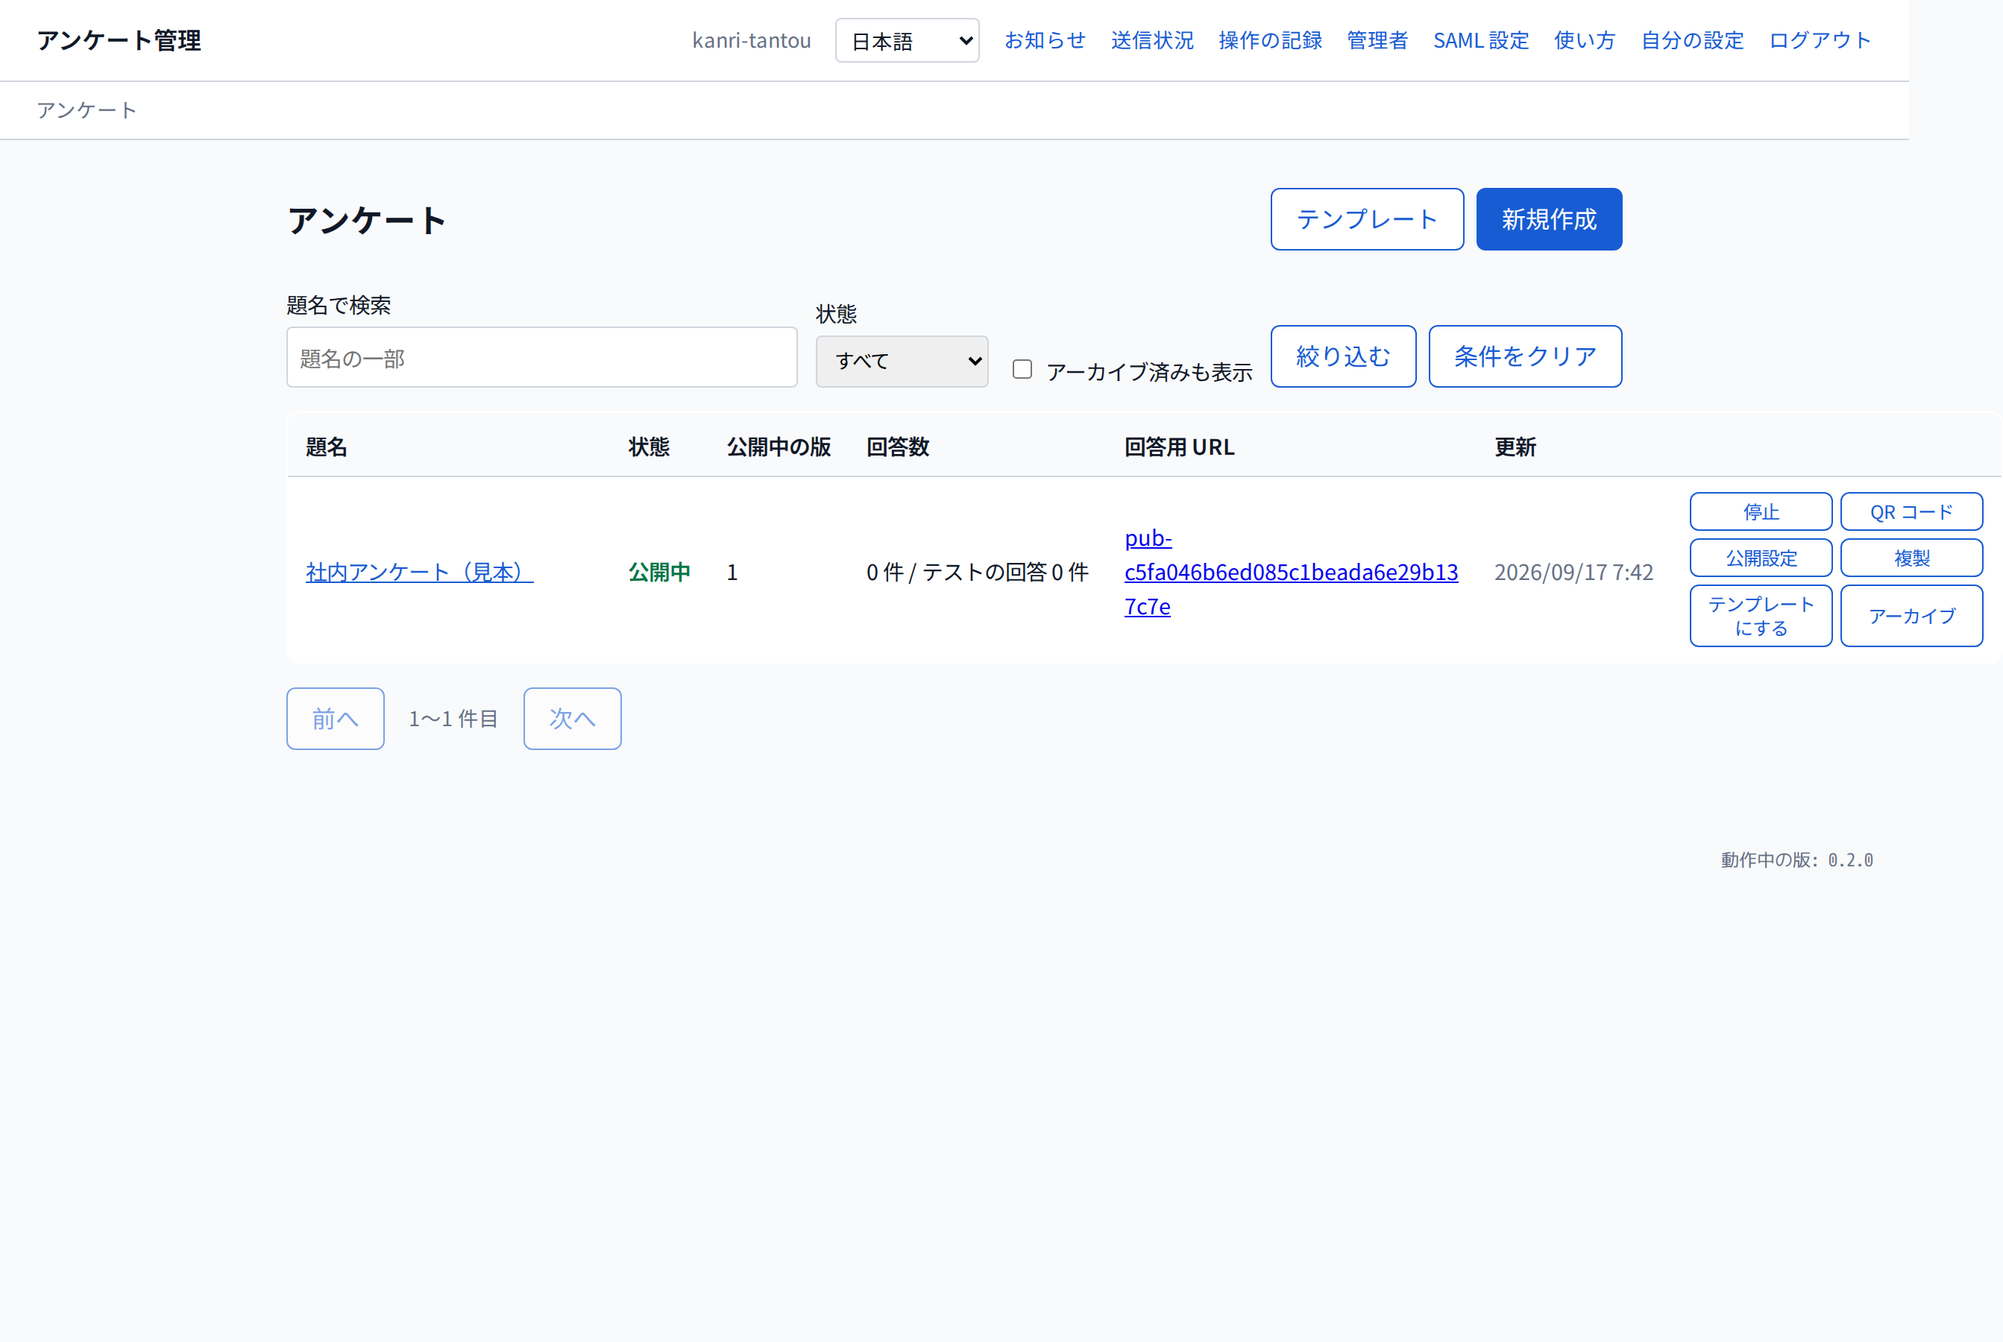
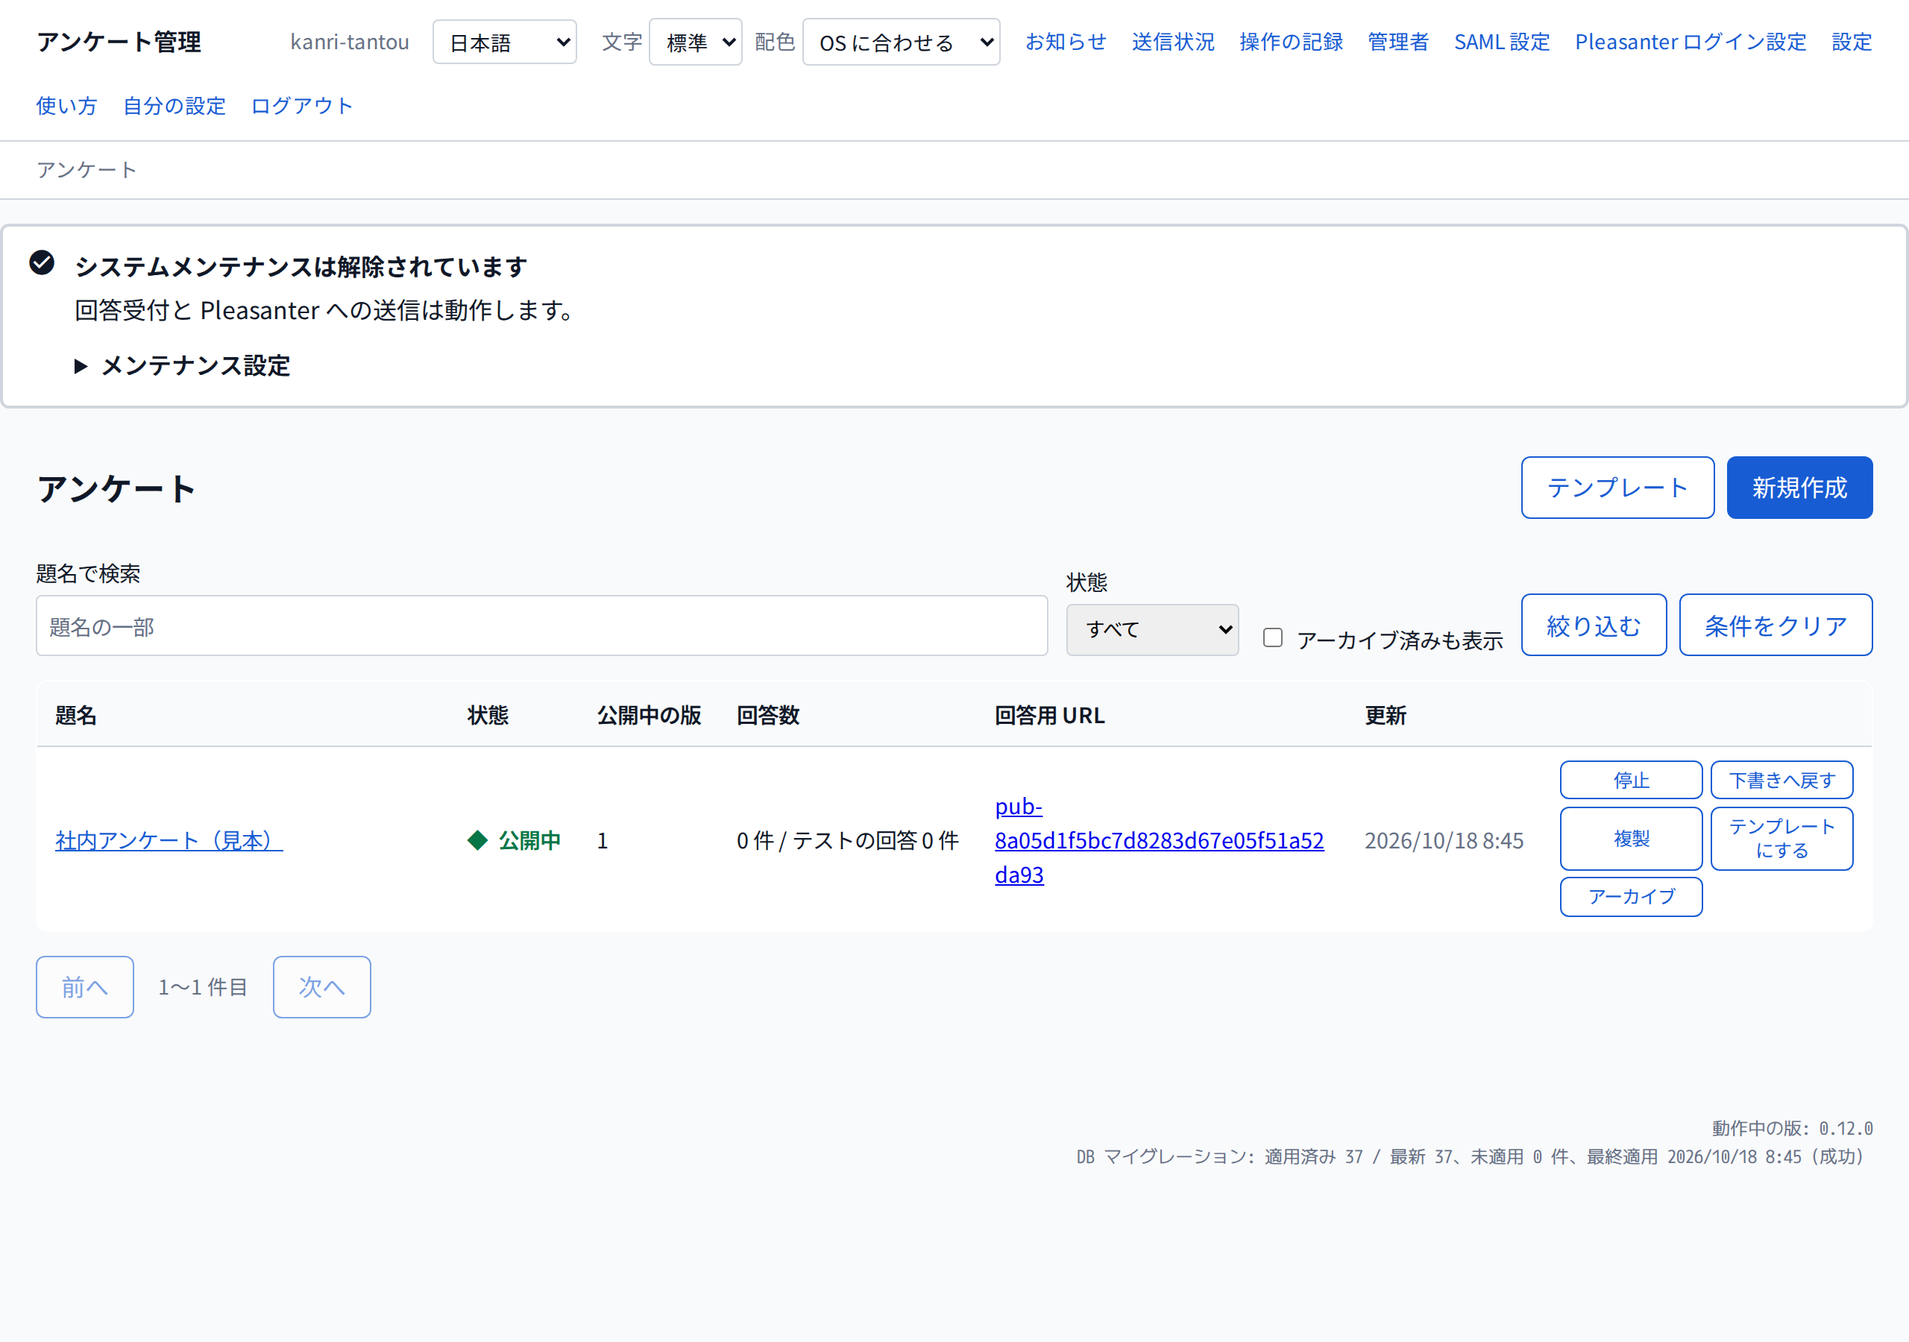
v0.12.0向けの取説用画面写しを更新する (#642)
* v0.12.0の新機能を撮影するspecを追加する

取説に必要な移動警告、ページ下部の釦、選択肢備考、未保存表示を再現するため。\n\n検証: SQL Server のまっさらな検証環境で manual.spec.ts と features.spec.ts の 17 件が成功。\n\nCo-authored-by: Copilot <223556219+Copilot@users.noreply.github.com>

* v0.12.0向けの取説用画面写しを撮り直す

既存写しを現行画面へ更新し、新機能を説明できる6枚を追加するため。\n\n検証: Playwright の manual.spec.ts と features.spec.ts をまっさらな SQL Server 環境で連続実行。\n\nCo-authored-by: Copilot <223556219+Copilot@users.noreply.github.com>

* 新機能の画面写しを取説へ追加する

移動警告、釦条件、選択肢備考、未保存表示の操作を画面と対応付けるため。\n\n検証: 更新した _documents 配下の2文書を markdownlint-cli2 で検証。\n\nCo-authored-by: Copilot <223556219+Copilot@users.noreply.github.com>

diff --git a/tools/screenshots/lib/features.ts b/tools/screenshots/lib/features.ts
@@ -1,0 +1,162 @@
+import type { APIRequestContext } from '@playwright/test';
+import { currentRevision } from './survey';
+
+/**
+ * v0.12.0 の編集・回答画面を撮るための見本を作る。
+ *
+ * 移動の警告、ページ下部の釦、選択肢の備考を 1 つの定義に集め、
+ * 管理画面と回答画面で同じ設定を確かめられるようにする。
+ */
+export async function prepareFeatureSurvey(
+  request: APIRequestContext,
+  pleasanterSiteId: number,
+): Promise<{ surveyId: string; publicId: string }> {
+  const created = await request.post('/api/admin/surveys', {
+    data: { title: '新機能の見本', pleasanterSiteId },
+  });
+  if (!created.ok()) {
+    throw new Error(`アンケートを作れなかった: ${created.status()} ${await created.text()}`);
+  }
+
+  const { surveyId, publicId } = (await created.json()) as {
+    surveyId: string;
+    publicId: string;
+  };
+
+  const definition = {
+    surveyId,
+    version: 1,
+    title: { ja: '新機能の見本' },
+    description: { ja: '取扱説明書に載せるための見本です。' },
+    confirmationMessage: { ja: 'ありがとうございました。' },
+    displayMode: 'Paged',
+    showProgress: true,
+    allowEditingAfterSubmit: false,
+    pages: [
+      {
+        pageId: 'page-start',
+        title: { ja: '利用状況' },
+        next: { kind: 'Page', pageId: 'page-finish' },
+        questions: [
+          {
+            questionId: 'q-approval',
+            type: 'Radio',
+            title: { ja: 'サービスを利用していますか' },
+            isRequired: true,
+            choices: [
+              {
+                value: 'yes',
+                label: { ja: '利用している' },
+                remark: { ja: '継続して利用している方を選んでください。' },
+              },
+              {
+                value: 'no',
+                label: { ja: '利用していない' },
+                remark: { ja: '利用予定がない場合はこちらを選んでください。' },
+              },
+            ],
+            settings: {},
+          },
+          {
+            questionId: 'q-details',
+            type: 'Text',
+            title: { ja: '利用しているサービス名' },
+            isRequired: false,
+            choices: [],
+            settings: {},
+            visibleWhen: {
+              match: 'All',
+              rules: [{ questionId: 'q-approval', operator: 'Equals', value: 'yes' }],
+            },
+          },
+          {
+            questionId: 'q-notice',
+            type: 'Checkbox',
+            title: { ja: 'お知らせの受け取り方法' },
+            isRequired: false,
+            choices: [
+              {
+                value: 'mail',
+                label: { ja: 'メール' },
+                remark: { ja: '登録済みのメールアドレスへお送りします。' },
+              },
+              {
+                value: 'portal',
+                label: { ja: 'ポータル' },
+                remark: { ja: 'ポータルの通知一覧で確認できます。' },
+              },
+            ],
+            settings: {},
+          },
+        ],
+        buttons: {
+          next: {
+            enabledWhen: {
+              match: 'All',
+              rules: [{ questionId: 'q-approval', operator: 'Equals', value: 'yes' }],
+            },
+          },
+          links: [
+            {
+              buttonId: 'button-guide',
+              label: { ja: '利用案内を開く' },
+              url: 'https://www.example.com/guide',
+              openInNewTab: true,
+              sortOrder: 0,
+            },
+          ],
+        },
+      },
+      {
+        pageId: 'page-finish',
+        title: { ja: '確認' },
+        questions: [
+          {
+            questionId: 'q-confirm',
+            type: 'Confirm',
+            title: { ja: '利用規約に同意します' },
+            isRequired: false,
+            choices: [],
+            settings: {},
+          },
+        ],
+        buttons: {
+          submit: {
+            enabledWhen: {
+              match: 'All',
+              rules: [{ questionId: 'q-confirm', operator: 'Equals', value: 'true' }],
+            },
+          },
+        },
+      },
+    ],
+  };
+
+  const saved = await request.put(`/api/admin/surveys/${surveyId}`, {
+    data: {
+      revision: await currentRevision(request, surveyId),
+      definition,
+      mapping: { assignments: [] },
+    },
+  });
+  if (!saved.ok()) {
+    throw new Error(`下書きを保存できなかった: ${saved.status()} ${await saved.text()}`);
+  }
+
+  const testPublished = await request.post(
+    `/api/admin/surveys/${surveyId}/test-publish`,
+    { data: {} },
+  );
+  if (!testPublished.ok()) {
+    throw new Error(
+      `テスト公開できなかった: ${testPublished.status()} ${await testPublished.text()}`,
+    );
+  }
+
+  const published = await request.post(`/api/admin/surveys/${surveyId}/publish`, { data: {} });
+  if (!published.ok()) {
+    throw new Error(`公開できなかった: ${published.status()} ${await published.text()}`);
+  }
+
+  return { surveyId, publicId };
+}

diff --git a/tools/screenshots/specs/features.spec.ts b/tools/screenshots/specs/features.spec.ts
@@ -1,0 +1,113 @@
+import { expect, test, type Locator, type Page } from '@playwright/test';
+import { ensureAdminStorageState } from '../lib/admin';
+import { prepareFeatureSurvey } from '../lib/features';
+import { findTofu, japaneseSamples } from '../lib/tofu';
+
+const authFile = '.auth.json';
+const shots = 'shots';
+const demoSiteId = Number(process.env['SHOT_SITE_ID'] ?? '1');
+
+test.describe.configure({ mode: 'serial' });
+
+test.beforeAll(async ({ browser, baseURL }) => {
+  await ensureAdminStorageState(browser, baseURL ?? '');
+});
+
+test.describe('v0.12.0 の取説用の写し', { tag: '@standalone' }, () => {
+  test.use({ storageState: authFile });
+
+  let surveyId = '';
+  let publicId = '';
+
+  test.beforeAll(async ({ browser, baseURL }) => {
+    const context = await browser.newContext({ baseURL, storageState: authFile });
+    try {
+      ({ surveyId, publicId } = await prepareFeatureSurvey(context.request, demoSiteId));
+    } finally {
+      await context.close();
+    }
+  });
+
+  test('設問の移動で壊れる候補を撮る', async ({ page }) => {
+    await openEditor(page, surveyId);
+
+    await page
+      .locator('article.question', { hasText: 'サービスを利用していますか' })
+      .getByRole('button', { name: '移動' })
+      .click();
+
+    const dialog = page.getByRole('dialog', { name: '設問を移動' });
+    await expect(dialog.getByText('この位置では定義が壊れます。')).toBeVisible();
+    await shoot(page, dialog, 'admin-21-question-reorder');
+  });
+
+  test('ページの移動で壊れる候補を撮る', async ({ page }) => {
+    await openEditor(page, surveyId);
+
+    await page.locator('section.page > .page-head').getByRole('button', { name: '移動' }).click();
+
+    const dialog = page.getByRole('dialog', { name: 'ページを移動' });
+    await expect(dialog.getByText('この位置では定義が壊れます。')).toBeVisible();
+    await shoot(page, dialog, 'admin-22-page-reorder');
+  });
+
+  test('ページ下部の釦の設定を撮る', async ({ page }) => {
+    await openEditor(page, surveyId);
+
+    await page.getByText('ページ下部の釦', { exact: true }).click();
+    await expect(page.getByRole('heading', { name: '任意リンク' })).toBeVisible();
+    await expect(page.getByLabel('リンク先 URL（http / https / mailto）')).toHaveValue(
+      'https://www.example.com/guide',
+    );
+    await shoot(page, page.locator('section.page'), 'admin-23-page-buttons');
+  });
+
+  test('未保存の設問カードを撮る', async ({ page }) => {
+    await openEditor(page, surveyId);
+
+    const question = page.locator('article.question').nth(1);
+    await question.getByPlaceholder('設問文').fill('利用しているサービス名（変更）');
+    await expect(question.getByLabel('未保存')).toBeVisible();
+    await shoot(page, question, 'admin-24-unsaved-question');
+  });
+
+  test('備考と無効な次へ釦を回答画面で撮る', async ({ page }) => {
+    test.skip(publicId === '', '下ごしらえでアンケートを公開できていない');
+
+    await page.goto(`/f/${publicId}`);
+    await expect(page.getByRole('heading', { name: '新機能の見本' })).toBeVisible();
+    await expect(page.getByText('継続して利用している方を選んでください。')).toBeVisible();
+    await expect(page.getByText('ポータルの通知一覧で確認できます。')).toBeVisible();
+    await expect(page.getByRole('button', { name: '次へ' })).toBeDisabled();
+    await expect(page.getByText('条件を満たしていないため押せません')).toBeVisible();
+    await shoot(page, page.locator('main'), 'answer-11-choice-remarks-disabled-next');
+  });
+
+  test('無効な送信釦と理由を回答画面で撮る', async ({ page }) => {
+    test.skip(publicId === '', '下ごしらえでアンケートを公開できていない');
+
+    await page.goto(`/f/${publicId}`);
+    await page.getByRole('radio', { name: '利用している' }).check();
+    await page.getByRole('button', { name: '次へ' }).click();
+    await expect(page.getByRole('heading', { name: '確認' })).toBeVisible();
+    await expect(page.getByRole('button', { name: '送信する' })).toBeDisabled();
+    await expect(page.getByText('条件を満たしていないため押せません')).toBeVisible();
+    await shoot(page, page.locator('main'), 'answer-12-disabled-submit');
+  });
+});
+
+async function openEditor(page: Page, surveyId: string): Promise<void> {
+  test.skip(surveyId === '', '下ごしらえでアンケートを作れていない');
+  await page.goto(`/admin/surveys/${surveyId}`);
+  await expect(page.getByRole('tablist', { name: 'ページ' })).toBeVisible();
+}
+
+async function shoot(page: Page, target: Locator, name: string): Promise<void> {
+  const report = await findTofu(page, japaneseSamples);
+  expect(
+    report.tofu,
+    `${name} を撮る前に日本語が描けていない。豆腐: ${report.tofu.join('')} / 書体: ${report.fontFamily}`,
+  ).toEqual([]);
+
+  await target.screenshot({ path: `${shots}/${name}.png` });
+}

diff --git a/_documents/画面設計.md b/_documents/画面設計.md
@@ -53,6 +53,10 @@ stateDiagram-v2
 `src/VehicleVision.PleasanterTools.Questionnaire.Frontend/src/App.svelte`
 312-317、957-1031 行で確認した（2026-10-16）。
 
+![選択肢の備考と無効な「次へ」](../tools/screenshots/shots/answer-11-choice-remarks-disabled-next.png)
+
+![無効な「送信する」と理由](../tools/screenshots/shots/answer-12-disabled-submit.png)
+
 ### 書きかけの回答（Issue #59）
 
 **端末の中だけに残す。** サーバへは送らない。
@@ -256,6 +260,10 @@ stateDiagram-v2
 - ページ内を回答者ごとにシャッフルする設定は、表示条件があるページでは従来どおり有効にできない。
   設問を移動して表示条件が後方参照になった場合も、候補警告と公開前検証で検出する。
 
+| 設問を移動する | ページを移動する |
+| --- | --- |
+| ![設問の移動で表示条件が壊れる候補](../tools/screenshots/shots/admin-21-question-reorder.png) | ![ページの移動で行き先が後ろ向きになる候補](../tools/screenshots/shots/admin-22-page-reorder.png) |
+
 ### ログイン画面
 
 **合言葉のログインに加えて、有効にしている入口だけ釦を並べる。**
@@ -428,6 +436,8 @@ stateDiagram-v2
 - 選択肢の行には、回答者へ表示する**任意の備考**を入力できる。備考は多言語のプレーンテキストで、
   ラジオボタン・複数選択ではラベルの下、プルダウンでは選択中の項目の下に `--muted` 色で出す。
   回答値と Pleasanter への書き込みには含めない。
+- ページの「ページ下部の釦」では、「前へ」「次へ」「送信」の表示条件・有効条件と任意リンクを設定する。
+  無効な釦は理由を文字で示す。
 - 設問タブの各設問に割り当ての有無を出す。割り当て済みは書き込み先の列名（複数なら並べる）、
   未割り当ては目立つ表示とし、表示専用の設問には何も出さない。
   列名を押すと割り当てタブを開き、その設問を入力に含む行までスクロールして、枠、背景、
@@ -437,6 +447,10 @@ stateDiagram-v2
 - タブを往復しても、入力中の内容と未保存の状態は失われない（定義とマッピングは
   タブの外の状態として持つ）。
 - 代わりに失ったもの: 設問を編集しながらマッピングを同時に見ること（Issue #546）。
+
+![ページ下部の釦の設定](../tools/screenshots/shots/admin-23-page-buttons.png)
+
+![未保存の設問カード](../tools/screenshots/shots/admin-24-unsaved-question.png)
 
 #### ほかのアンケートから設問を取り込む（Issue #358）
 

diff --git a/_documents/アンケート作成-運用手順書.md b/_documents/アンケート作成-運用手順書.md
@@ -290,6 +290,10 @@ SAML や Pleasanter のログイン（シングルサインオン）を有効に
 移動しても設問 ID は変わらないため、Pleasanter への割り当ては保たれる。
 公開済みの版は不変であり、移動は下書きとその後に公開する版だけに効く。
 
+| 設問を移動する | ページを移動する |
+| --- | --- |
+| ![設問の移動で表示条件が壊れる候補](../tools/screenshots/shots/admin-21-question-reorder.png) | ![ページの移動で行き先が後ろ向きになる候補](../tools/screenshots/shots/admin-22-page-reorder.png) |
+
 > **キーボードでも操作できる。** 「移動」を開いた後は候補を Tab で選び、Enter または Space
 > で確定する。Esc で閉じると「移動」へ戻る。
 
@@ -336,6 +340,8 @@ SAML や Pleasanter のログイン（シングルサインオン）を有効に
 
 - 「その他」に印を付けると、**選択肢＋自由記述**の 2 つを持つ選択肢になる
 - 自由記述は、割り当ての入力の口で `OtherText` として選べる（[7.3](#73-入力の口)）
+- 「回答者へ見せる備考（任意）」には、選択肢の意味を補う文字列を入れられる。ラジオと
+  チェックボックスではラベルの下に表示され、Pleasanter へ保存する値には含めない
 
 ### 6.4 回答に応じて出し分ける
 
@@ -367,6 +373,12 @@ SAML や Pleasanter のログイン（シングルサインオン）を有効に
 1390-1490 行、共通の条件エディタは
 `src/VehicleVision.PleasanterTools.Questionnaire.Frontend/src/admin/components/ConditionEditor.svelte`
 1-166 行で確認した（2026-10-16）。
+
+![ページ下部の釦の表示条件・有効条件と任意リンク](../tools/screenshots/shots/admin-23-page-buttons.png)
+
+![選択肢の備考と条件を満たさず無効になった「次へ」](../tools/screenshots/shots/answer-11-choice-remarks-disabled-next.png)
+
+![条件を満たさず無効になった「送信する」と理由](../tools/screenshots/shots/answer-12-disabled-submit.png)
 
 ### 6.5 終了したアンケートを畳む
 

diff --git a/tools/screenshots/README.md b/tools/screenshots/README.md
@@ -151,6 +151,12 @@ docker compose --profile sqlserver --profile screenshots run --rm     screenshot
 | `answer-10-readability-required-error` | 高コントラストでの必須の入力漏れの表示（同上） |
 | `admin-19-pleasanter-sso-settings` | Pleasanter ログイン設定（`specs/pleasanter-sso.spec.ts`） |
 | `admin-20-pleasanter-login` | ログイン（「Pleasanter でログイン」の釦） |
+| `admin-21-question-reorder` | 設問の移動（警告が出る候補） |
+| `admin-22-page-reorder` | ページの移動（警告が出る候補） |
+| `admin-23-page-buttons` | ページ下部の釦の設定 |
+| `admin-24-unsaved-question` | 未保存の設問カード |
+| `answer-11-choice-remarks-disabled-next` | 選択肢の備考と無効な「次へ」 |
+| `answer-12-disabled-submit` | 無効な「送信する」と理由 |
 
 `admin-12`〜`admin-14` は `specs/manual.spec.ts` が撮る。
 `admin-19`・`admin-20` は `shots/` にコミットしていない（2026-09-25 時点。e2e.yml の写しの一式で撮られる）。
